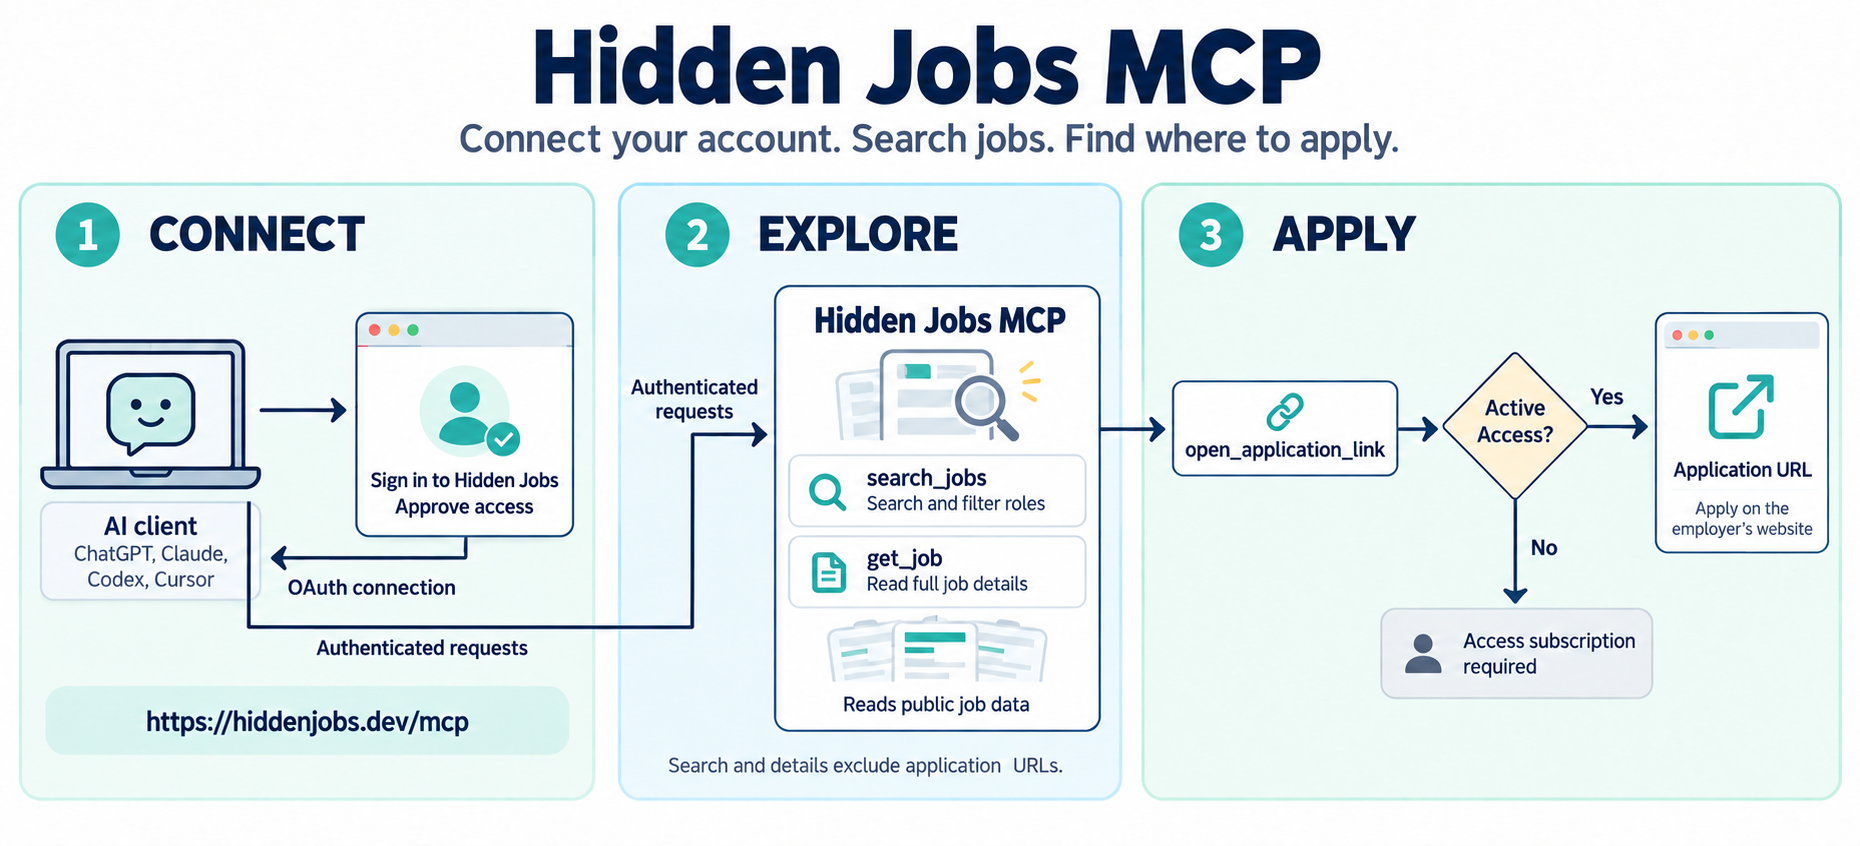
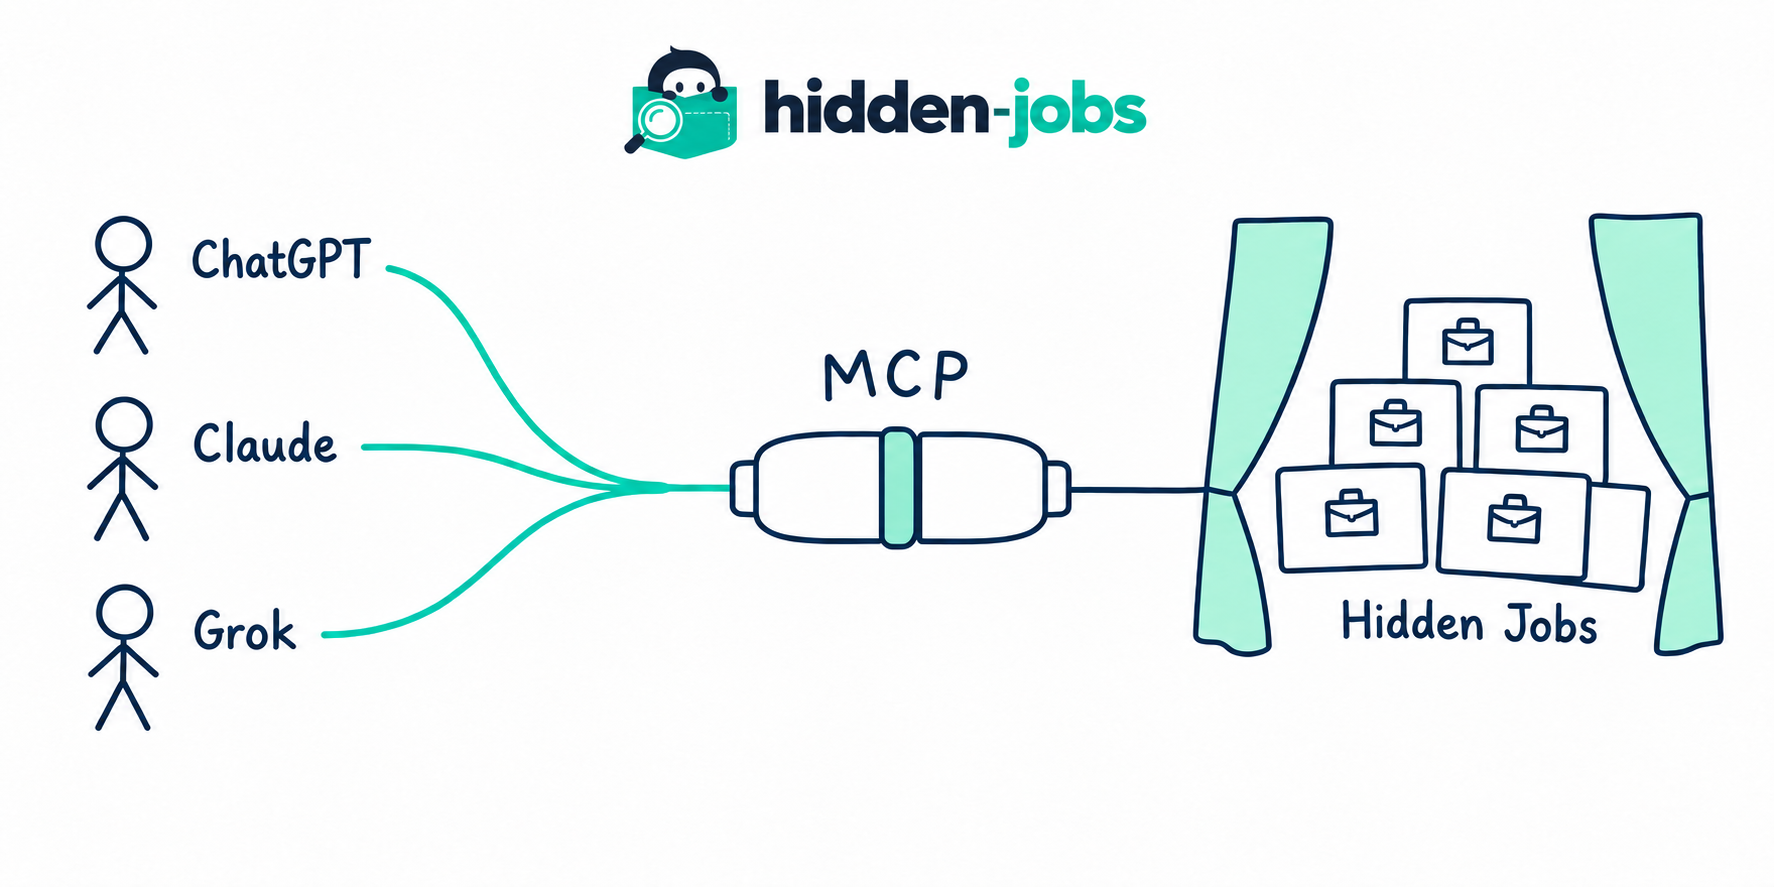
Simplify the README MCP illustration (#2)
Replace the README illustration with the owner-selected simple MCP drawing and update its alternative text.

Changed region(s): [[0.0, 0.2151, 0.9921, 0.9527], [0.248, 0.0307, 0.7441, 0.1844]]

diff --git a/README.md b/README.md
@@ -4,7 +4,7 @@ Search remote technology jobs, read full descriptions, compare roles and retriev
 from your AI client.
 
 <p align="center">
-  <img src="docs/remote-jobs-mcp-flow.png" alt="Hidden Jobs MCP: connect your account with OAuth, search and read jobs, then retrieve application links with active Access" width="100%">
+  <img src="docs/remote-jobs-mcp-flow.png" alt="ChatGPT, Claude and Grok connect to Hidden Jobs through MCP" width="100%">
 </p>
 
 ## Connect Hidden Jobs
